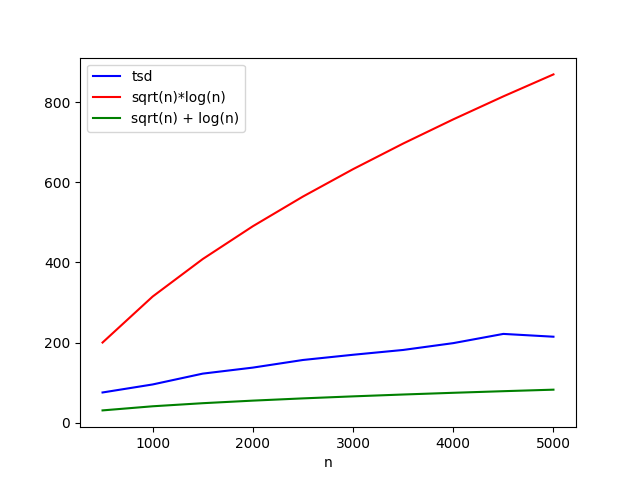
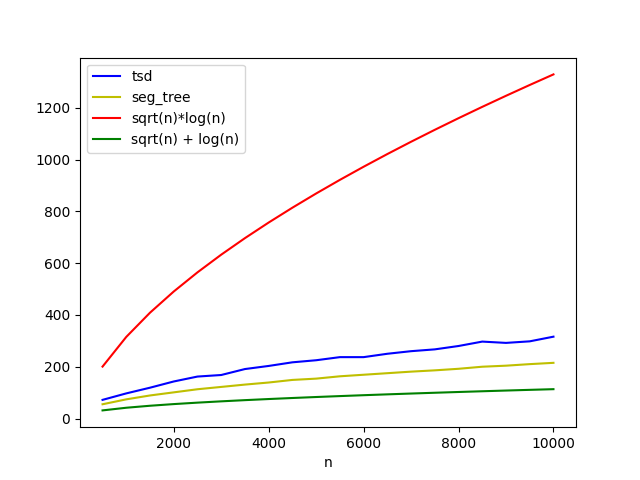
preparing larger experiment

diff --git a/experiments/vertical_query_exp_2.h b/experiments/vertical_query_exp_2.h
@@ -1,4 +1,5 @@
 #include "../TSD.h"
+#include "../segment_ds/SegmentDS.h"
 #include <random>
 #include <math.h>
 #include <algorithm>
@@ -11,12 +12,15 @@ void vertical_query_exp_2() {
     //     exit(0);
     // else
     //     std::cout << "file open...\n";
-    results << "n,visits\n";
-    for (int seg_count = 500; seg_count <= 10000; seg_count+=500) {
+    results << "n,visits,seg_ds\n";
+    for (int seg_count = 10000; seg_count <= 400000; seg_count+=10000) {
         int total = 0;
+        int total_seg_ds = 0;
+        std::cout << "seg_count: " << seg_count << std::endl;
         #pragma omp parallel for
         for (int seed = 1; seed <= 10; seed++) {
             std::vector<Segment<PointCart, int>*> segments;
+            std::vector<SegmentDS::Segment*> o_segs = std::vector<SegmentDS::Segment*>();
 
             // size_t seg_count = 10000;
             size_t long_segs = (size_t)sqrt(seg_count);
@@ -25,31 +29,37 @@ void vertical_query_exp_2() {
             std::mt19937 generator (seed);
 
             auto priorities = std::vector<int>();
-            for (size_t i = 0; i < seg_count + long_segs; ++i) {
+            for (size_t i = 0; i <= seg_count; ++i) {
                 priorities.push_back(i);
             }
 
             std::shuffle(priorities.begin(), priorities.end(), generator);
 
             for (size_t i = 0; i < seg_count; ++i) {
-                auto seg  = new Segment<PointCart, int>(PointCart(0, i), PointCart(100, i), priorities[i]);
-                segments.push_back(seg);
+                if (i == 0 || i % (seg_count / long_segs) != 0) {
+                    auto seg  = new Segment<PointCart, int>(PointCart(0, i), PointCart(100, i), priorities[i]);
+                    segments.push_back(seg);
+                    if (seed == 1)
+                        o_segs.push_back(new SegmentDS::Segment(0, i, 100, i));
+                }
             }
 
             for (size_t i = 1; i <= long_segs; ++i) {
                 // std::cout << 2*i*(seg_count/50) + 0.5 << std::endl;
                 auto seg = new Segment<PointCart, int>(
-                    PointCart(0, i*(seg_count/long_segs) + 0.5), PointCart(200, i*(seg_count/long_segs) + 0.5), priorities[seg_count + i - 1]
+                    PointCart(0, i*(seg_count/long_segs)), PointCart(200, i*(seg_count/long_segs)), priorities[i*(seg_count/long_segs)]
                 );
                 segments.push_back(seg);
+                if (seed == 1)
+                    o_segs.push_back(new SegmentDS::Segment(0, i*(seg_count/long_segs), 200, i*(seg_count/long_segs)));
             }
 
-            std::shuffle(segments.begin(), segments.end(), generator);
+            std::sort(segments.begin(), segments.end());
 
 
             auto tsd = TSD<PointCart, int>();
 
-            for (size_t i = 0; i < seg_count + long_segs; ++i) {
+            for (size_t i = 0; i < seg_count; ++i) {
                 // std::cout << i << std::endl;
                 // std::cout << segments[i]->get_priority() << std::endl;
                 tsd.insert_segment(*segments[i]);
@@ -59,11 +69,23 @@ void vertical_query_exp_2() {
                 PointCart(150, 100000.5), PointCart(150, -.5), 100001
             );
 
+            if (seed == 1) {
+                auto _query_seg = SegmentDS::Segment(150, -.5, 150, 100000.5);
+                auto seg_ds = SegmentDS::SegmentDS(o_segs);
+                auto output = std::vector<SegmentDS::Segment>();
+                seg_ds.vertical_query(_query_seg, output);
+                total_seg_ds = SegmentDS::node_visits;
+            }
             tsd.affected_subdag_roots(query_seg, false);
             std::cout << tsd.get_node_visits() << std::endl;
             total += tsd.get_node_visits();
+
+            for (auto s: o_segs)
+                delete s;
+            std::cout << "long_segs: " << long_segs << std::endl;
         }
-        results << seg_count << "," << total/10 << "\n";
+        
+        results << seg_count << "," << total/10 << "," << total_seg_ds << "\n";
     }
     results.close();
 }

diff --git a/TSD_algorithms/v_merge.cpp b/TSD_algorithms/v_merge.cpp
@@ -58,9 +58,6 @@ Node<PointType, OrderType>* TSD<PointType, OrderType>::v_merge_right_lower_prior
     assert(right != nullptr);
     assert(left->get_trapezoid().get_right() == right->get_trapezoid().get_left());
 
-    if (right->get_priority() == 7)
-        std::cout << "hello\n";
-
     
     auto new_trap = BoundingTrap<PointType, OrderType>::merge(left->get_trapezoid(), right->get_trapezoid());
     auto new_node = new Node<PointType, OrderType>(new_trap);
@@ -251,14 +248,14 @@ Node<PointType, OrderType>* TSD<PointType, OrderType>::v_merge_partial(Node<Poin
 
             Node<PointType, OrderType>* right_desc = left->get_R();
             while (right_desc != right && right_desc != nullptr) {
-                std::cout << "right_desc...\n";
+                // std::cout << "right_desc...\n";
                 // if (right_desc == nullptr)
                 //     assert(false);
                 right_desc = right_desc->get_R();
             }
             Node<PointType, OrderType>* left_desc = right->get_L();
             while (left_desc != left && left_desc != nullptr) {
-                std::cout << "left_desc...\n";
+                // std::cout << "left_desc...\n";
                 // if (left_desc == nullptr)
                     // assert(false);
                 left_desc = left_desc->get_L();
@@ -295,7 +292,7 @@ Node<PointType, OrderType>* TSD<PointType, OrderType>::v_merge_partial(Node<Poin
                 left->set_R(right);
                 right->set_left(left_old_R);
             } else if (right_desc == right) {
-                std::cout << "good\n";
+                // std::cout << "good\n";
             } else {
                 v_merge(left->get_R(), right);
                 return left;
@@ -327,14 +324,14 @@ Node<PointType, OrderType>* TSD<PointType, OrderType>::v_merge_partial(Node<Poin
 
             Node<PointType, OrderType>* right_desc = left->get_R();
             while (right_desc != right && right_desc != nullptr) {
-                std::cout << "right_desc...\n";
+                // std::cout << "right_desc...\n";
                 // if (right_desc == nullptr)
                 //     assert(false);
                 right_desc = right_desc->get_R();
             }
             Node<PointType, OrderType>* left_desc = right->get_L();
             while (left_desc != left && left_desc != nullptr) {
-                std::cout << "left_desc...\n";
+                // std::cout << "left_desc...\n";
                 // if (left_desc == nullptr)
                     // assert(false);
                 left_desc = left_desc->get_L();
@@ -371,7 +368,7 @@ Node<PointType, OrderType>* TSD<PointType, OrderType>::v_merge_partial(Node<Poin
                 right->set_L(left);
                 left->set_right(right_old_L);
             }   else if (left_desc == left) {
-                std::cout << "good\n";
+                // std::cout << "good\n";
             } else {
                 v_merge(left, right->get_L());
                 return right;
@@ -422,9 +419,6 @@ Node<PointType, OrderType>* TSD<PointType, OrderType>::v_merge(Node<PointType, O
     }
 
     Node<PointType, OrderType>* result;
-
-    if (right->get_priority() == 7 && left->get_priority() == 6)
-        std::cout << "hello\n";
 
     if (left->get_trapezoid().get_right() != right->get_trapezoid().get_left()) {
         result = v_merge_partial(left, right);

diff --git a/plotting_script.py b/plotting_script.py
@@ -13,6 +13,7 @@ sqrt_plus = [math.sqrt(num)+math.log(num, 2.0) for num in n]
 data["sqrt(n)*log(n)"] = sqrt_log
 data["sqrt(n) + log(n)"] = sqrt_plus
 ax = data.plot(kind="line", x="n", label="tsd", y="visits", color="b")
+data.plot(kind="line", x="n", y="seg_ds", label="seg_tree", color="y", ax = ax)
 data.plot(kind="line", x="n", y="sqrt(n)*log(n)", label="sqrt(n)*log(n)", color="r", ax = ax)
 data.plot(kind="line", x="n", y="sqrt(n) + log(n)", label="sqrt(n) + log(n)", color="g", ax = ax)
 ax.get_figure().savefig("vertical_query.png")

diff --git a/TSD.cpp b/TSD.cpp
@@ -700,8 +700,6 @@ void TSD<PointType, OrderType>::insert_segment(Segment<PointType, OrderType>& se
         // visMe = asJsonGraph(subdag_roots);
     }
 
-    if (e_cut->get_priority() == 5)
-        std::cout << "hello\n";
     // final pass to merge nodes
     for (auto& indices: merge_indices) {
         Node<PointType, OrderType>* merged_node = indices.side == -1 
